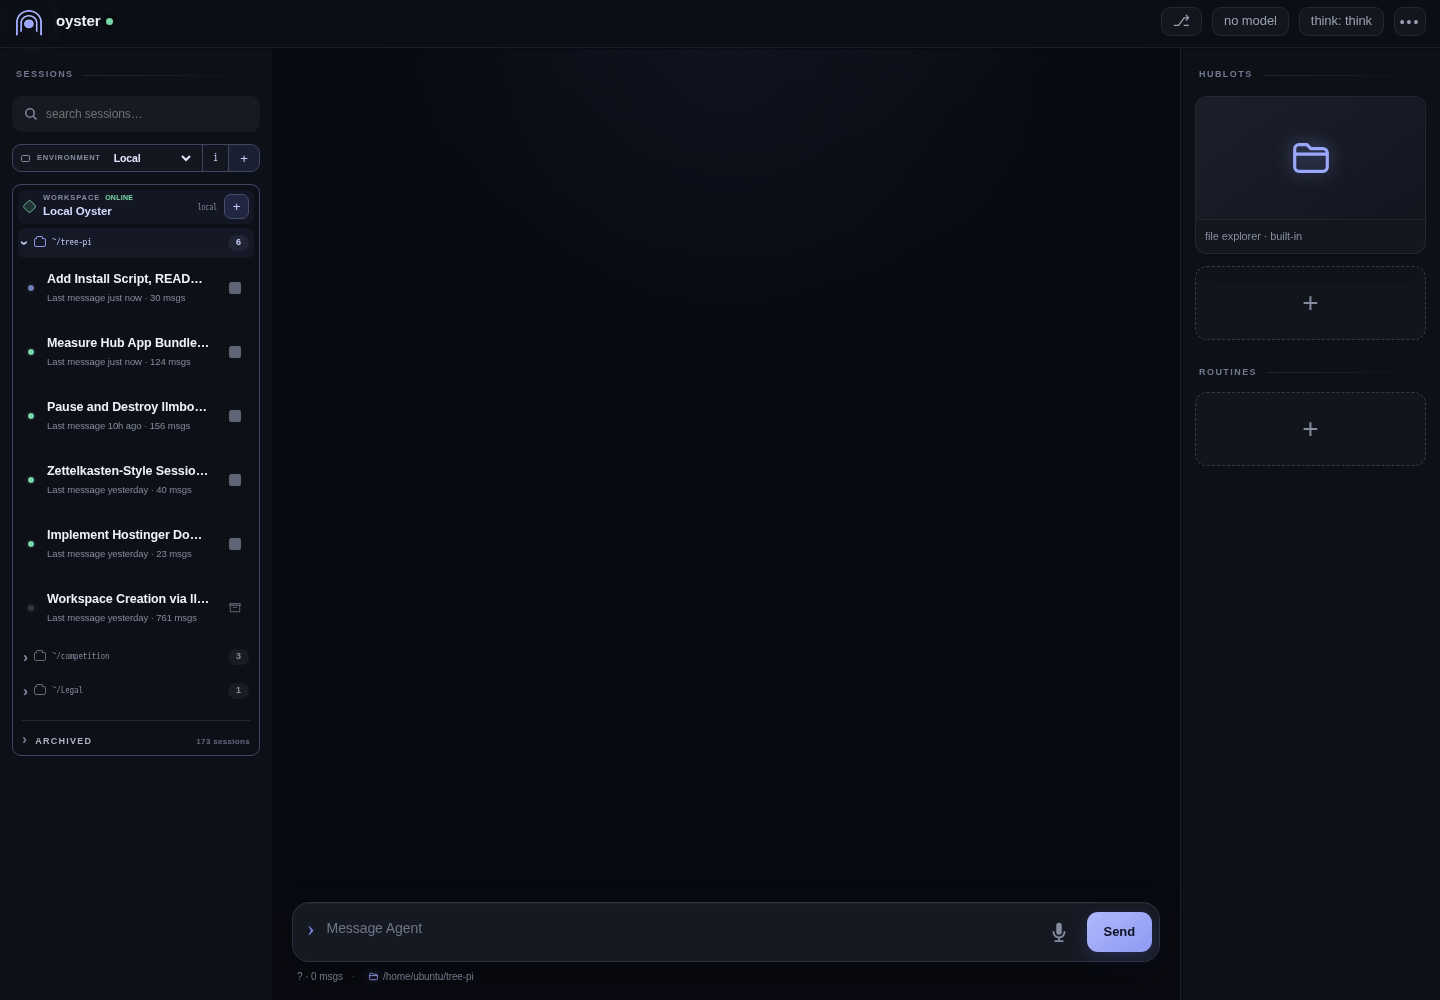
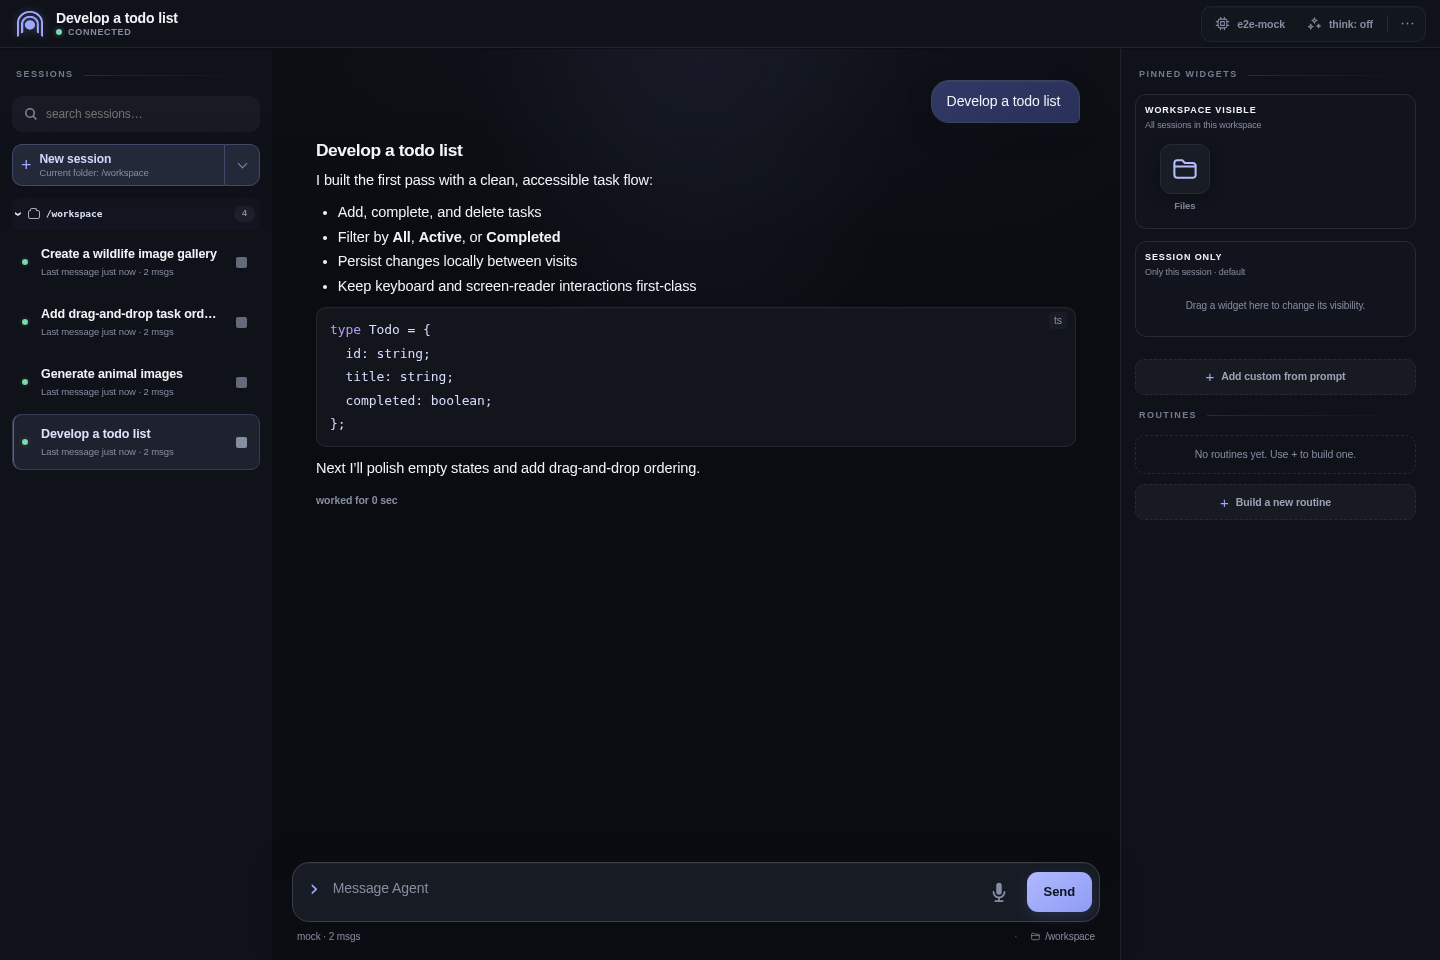
Replace README video with staged screenshots

diff --git a/README.md b/README.md
@@ -11,6 +11,10 @@
 </p>
 
 <p align="center">
+  <a href="https://cloud.digitalocean.com/apps/new?repo=https://github.com/SergeiKireevDev/oyster/tree/feature/digitalocean-app-platform"><img alt="Deploy to DigitalOcean" src="https://www.deploytodo.com/do-btn-blue.svg"></a>
+</p>
+
+<p align="center">
   <img src="docs/images/oyster-desktop.png" alt="Oyster desktop workspace" width="100%">
 </p>
 
@@ -94,7 +98,11 @@ See [Installation](docs/getting-started/installation.md), [Configuration](docs/g
 - **Made for mobile** — steer an active agent, review work, and manage sessions from your phone.
 
 <p align="center">
-  <img src="docs/images/oyster-mobile.gif" alt="Creating a mobile Oyster session and opening a Markdown document in a hublot" width="390">
+  <img src="docs/images/oyster-animal-images.png" alt="An Oyster session for generating a coordinated animal image collection" width="100%">
+</p>
+
+<p align="center">
+  <img src="docs/images/oyster-mobile-sessions.png" alt="Todo-list and animal-image sessions in Oyster on mobile" width="390">
 </p>
 
 <p align="center">
